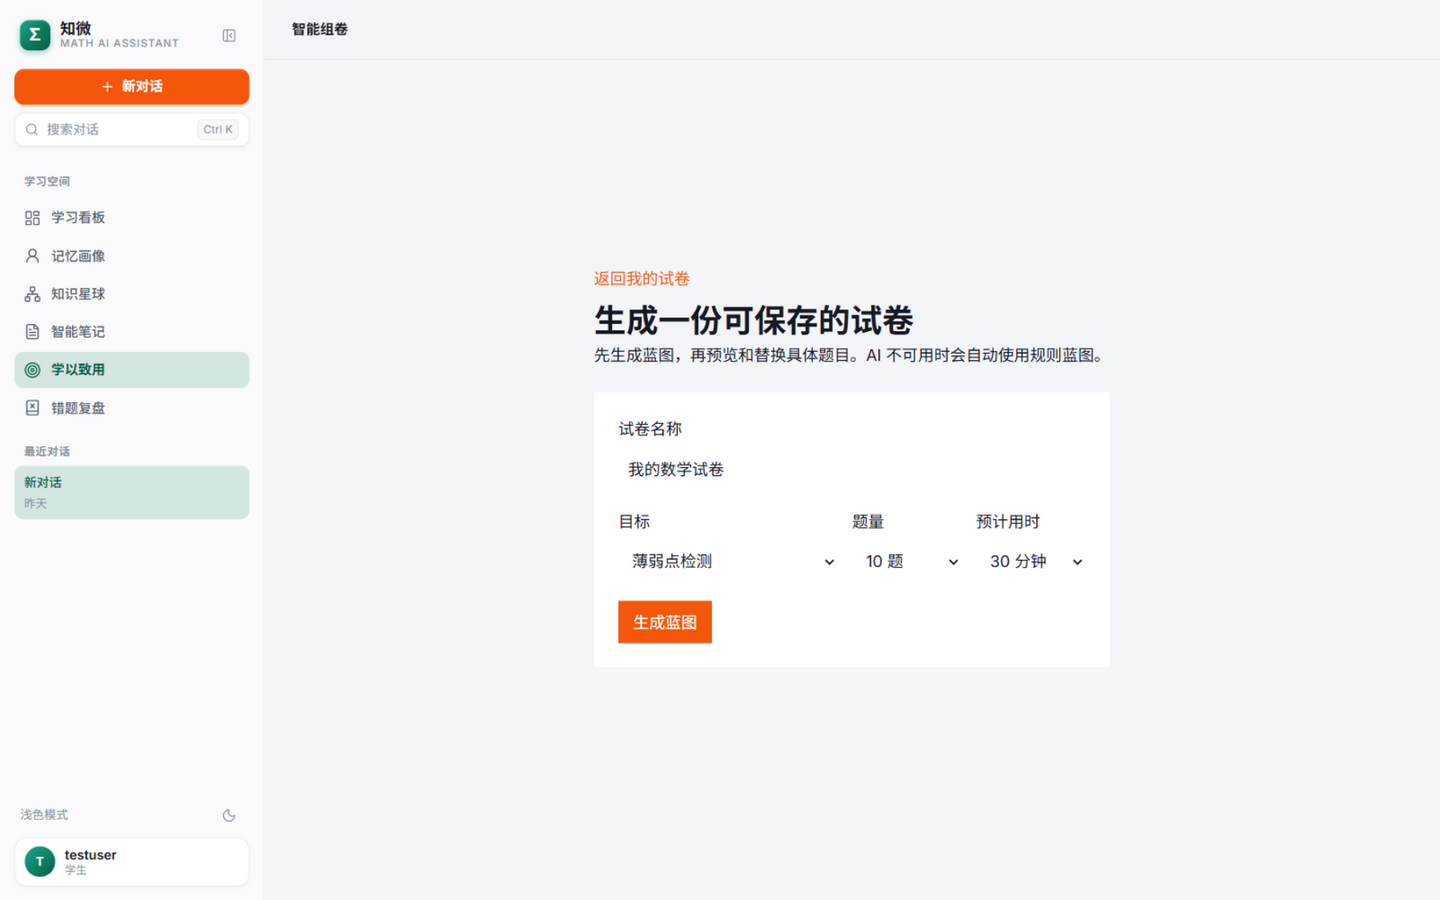
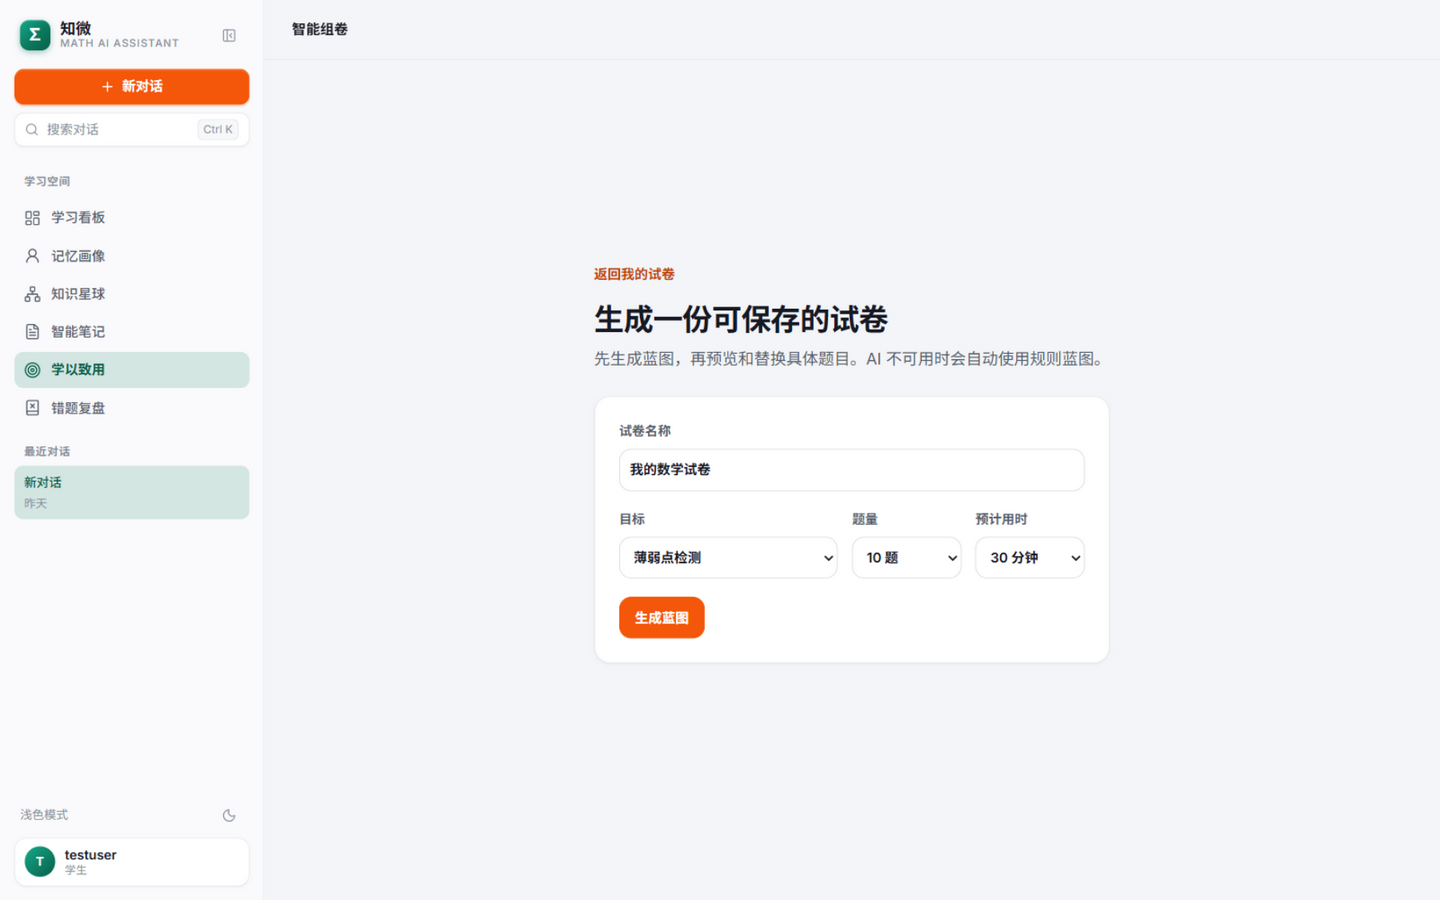
feat(design-v4) 组卷四页 V4 重皮(修复 V3 令牌失效)
- 根因同笔记两页:四视图全部使用 P5 已删除别名层的 V3 令牌名
  (--text-primary/secondary/tertiary、--border-subtle、--radius-sm/lg、
  --surface-muted、--danger),变量未定义导致边框/颜色渲染失效
- 全量替换 V4 令牌:字体阶梯(font-disp+clamp)、卡片 shadow-1/hover
  shadow-2、状态 pill(accent-soft)、按钮 hover/focus-visible/禁用态、
  输入聚焦环、详情页摘要卡 surface-2、草稿提示 amber-soft 语义盒
- 模板与逻辑零改动,仅 style 块替换;补 prefers-reduced-motion

验证:vitest 41 文件/147 用例、build、budget 全绿;列表/创建页亮暗
1440+创建页 375 走查截图更新至 design-preview/qa/papers/(编辑器/
详情页需已有试卷数据,与列表/创建同套设计语言)

diff --git a/frontend/src/views/StudentPaperCreateView.vue b/frontend/src/views/StudentPaperCreateView.vue
@@ -11,4 +11,32 @@ async function generate(){await assessment.previewBlueprint().catch(()=>{})}
 async function save(){const created=await papers.create({title:title.value,course_id:assessment.readiness.course_id,version_id:assessment.readiness.version_id,source_type:'ai',blueprint_buckets:assessment.blueprint.buckets.map(({original_count,adjust,...b})=>b),blueprint_snapshot:{goal:assessment.config.goal,duration_minutes:assessment.config.duration_minutes,planning_source:assessment.blueprint.meta?.planning_source}});router.push(`/apply/papers/${created.paper_id}/edit`)}
 </script>
 <template><AppShell><template #topbar-title>智能组卷</template><main class="page"><button class="back" @click="router.push('/apply/papers')">返回我的试卷</button><h1>生成一份可保存的试卷</h1><p>先生成蓝图，再预览和替换具体题目。AI 不可用时会自动使用规则蓝图。</p><section v-if="assessment.readiness" class="panel"><label>试卷名称<input v-model.trim="title" maxlength="200"></label><div class="row"><label>目标<select v-model="assessment.config.goal"><option value="weakness_check">薄弱点检测</option><option value="chapter_review">章节复习</option><option value="comprehensive">综合检测</option></select></label><label>题量<select v-model.number="assessment.config.question_count"><option v-for="n in [5,10,15,20,25,30]" :key="n" :value="n">{{n}} 题</option></select></label><label>预计用时<select v-model.number="assessment.config.duration_minutes"><option v-for="n in [15,30,45,60,90]" :key="n" :value="n">{{n}} 分钟</option></select></label></div><button class="primary" :disabled="assessment.blueprint.streaming" @click="generate">{{assessment.blueprint.streaming?'正在规划…':'生成蓝图'}}</button><p v-if="assessment.blueprint.error" class="error">{{assessment.blueprint.error}}</p><div v-if="assessment.blueprint.buckets.length" class="buckets"><article v-for="(bucket,index) in assessment.blueprint.buckets" :key="`${bucket.knowledge_point_code}-${index}`"><div><strong>{{bucket.knowledge_point_name||bucket.knowledge_point_code}}</strong><p>{{bucket.reason||'按当前学习情况配置'}}</p></div><div class="stepper"><button @click="assessment.adjustBucket(index,-1)">−</button><span>{{bucket.count}}题</span><button @click="assessment.adjustBucket(index,1)">＋</button></div></article><footer><span>共 {{total}} 题</span><button class="primary" :disabled="!title||papers.saving" @click="save">{{papers.saving?'正在选题…':'生成并进入编辑'}}</button></footer></div></section><p v-else>正在加载课程能力…</p></main></AppShell></template>
-<style scoped>.page{max-width:880px;margin:auto;padding:36px 24px 72px}.back{border:0;background:none;color:var(--accent);padding:0}.page>p{color:var(--text-secondary)}.panel{margin-top:24px;padding:24px;border:1px solid var(--border-subtle);border-radius:var(--radius-lg);background:var(--surface)}label{display:grid;gap:7px;color:var(--text-secondary)}input,select{min-height:42px;padding:0 10px;border:1px solid var(--border-subtle);border-radius:var(--radius-sm);background:var(--surface);color:var(--text-primary)}.row{display:grid;grid-template-columns:2fr 1fr 1fr;gap:14px;margin:18px 0}.buckets{display:grid;gap:10px;margin-top:22px}.buckets article,.buckets footer{display:flex;align-items:center;justify-content:space-between;gap:18px;padding:14px;border-radius:var(--radius-sm);background:var(--surface-muted)}.buckets p{margin:4px 0;color:var(--text-tertiary);font-size:13px}.stepper{display:flex;align-items:center;gap:10px}.stepper button{min-width:38px;padding:0}.buckets footer{background:var(--accent-soft)}button{min-height:42px;padding:0 15px;border:1px solid var(--border-subtle);border-radius:var(--radius-sm);background:var(--surface);color:var(--text-primary);cursor:pointer}.primary{background:var(--accent);border-color:var(--accent);color:#fff}.error{color:var(--danger)!important}@media(max-width:650px){.row{grid-template-columns:1fr}.buckets article{align-items:flex-start;flex-direction:column}}</style>
+<style scoped>
+.page { max-width: 880px; margin: auto; padding: 36px 24px 72px; }
+.back { border: 0; background: none; color: var(--accent-text); padding: 0; min-height: 0; font: inherit; font-size: 13.5px; font-weight: 600; cursor: pointer; }
+.back:hover { color: var(--accent); }
+.page > h1 { margin: 14px 0 6px; font-family: var(--font-disp); font-size: clamp(24px, 2.6vw, 30px); letter-spacing: -.02em; }
+.page > p { color: var(--ink-2); }
+.panel { margin-top: 24px; padding: 24px; border: 1px solid var(--border); border-radius: var(--r-l); background: var(--surface); box-shadow: var(--shadow-1); }
+label { display: grid; gap: 7px; color: var(--ink-2); font-size: 13px; font-weight: 600; }
+input, select { min-height: 42px; padding: 0 10px; border: 1px solid var(--border-strong); border-radius: var(--r-m); background: var(--surface); color: var(--ink-1); font: inherit; font-size: 13.5px; }
+input:focus-visible, select:focus-visible { outline: 2px solid var(--accent); outline-offset: 1px; }
+.row { display: grid; grid-template-columns: 2fr 1fr 1fr; gap: 14px; margin: 18px 0; }
+.buckets { display: grid; gap: 10px; margin-top: 22px; }
+.buckets article, .buckets footer { display: flex; align-items: center; justify-content: space-between; gap: 18px; padding: 14px; border: 1px solid var(--border); border-radius: var(--r-m); background: var(--surface-2); }
+.buckets strong { font-size: 14.5px; }
+.buckets p { margin: 4px 0 0; color: var(--ink-3); font-size: 13px; }
+.stepper { display: flex; align-items: center; gap: 10px; }
+.stepper button { min-width: 38px; padding: 0; }
+.stepper span { color: var(--ink-2); font-size: 13.5px; font-variant-numeric: tabular-nums; }
+.buckets footer { background: var(--accent-soft); border-color: var(--accent-soft-2); }
+.buckets footer span { color: var(--accent-text); font-weight: 650; font-size: 14px; }
+button { min-height: 42px; padding: 0 15px; border: 1px solid var(--border-strong); border-radius: var(--r-m); background: var(--surface); color: var(--ink-1); font: inherit; font-size: 13.5px; font-weight: 600; cursor: pointer; transition: background .15s ease, border-color .15s ease; }
+button:hover:not(:disabled) { border-color: var(--accent); color: var(--accent-text); }
+button:disabled { opacity: .55; cursor: not-allowed; }
+button:focus-visible { outline: 2px solid var(--accent); outline-offset: 2px; }
+.primary { background: var(--accent); border-color: var(--accent); color: #fff; }
+.primary:hover:not(:disabled) { background: var(--accent-strong); border-color: var(--accent-strong); color: #fff; }
+.error { color: var(--rose) !important; }
+@media (max-width: 650px) { .row { grid-template-columns: 1fr; } .buckets article { align-items: flex-start; flex-direction: column; } }
+</style>

diff --git a/frontend/src/views/StudentPaperDetailView.vue b/frontend/src/views/StudentPaperDetailView.vue
@@ -8,4 +8,29 @@ onMounted(()=>store.load(route.params.paperId).catch(()=>{}))
 async function launch(mode){busy.value=true;try{const session=await store.launch(mode,duration.value);router.push(mode==='test'?`/apply/exam/sessions/${session.session_id}`:`/apply/practice/sessions/${session.session_id}`)}finally{busy.value=false}}
 </script>
 <template><AppShell><template #topbar-title>试卷详情</template><main class="page"><button class="back" @click="router.push('/apply/papers')">返回我的试卷</button><p v-if="store.error" class="error">{{store.error}}</p><template v-if="store.paper"><section class="hero"><span>{{store.paper.status==='ready'?'已完成':'草稿'}}</span><h1>{{store.paper.title}}</h1><p>{{store.paper.question_count}}题 · {{store.paper.total_score}}分 · 预计{{store.paper.estimated_minutes}}分钟</p><div class="actions"><button @click="router.push(`/apply/papers/${store.paper.paper_id}/edit`)">编辑试卷</button><button class="primary" :disabled="store.paper.status!=='ready'||busy" @click="launch('practice')">开始练习</button><label>测试时长<select v-model.number="duration"><option v-for="n in [15,30,45,60,90]" :key="n" :value="n">{{n}}分钟</option></select></label><button class="primary" :disabled="store.paper.status!=='ready'||busy" @click="launch('test')">开始测试</button></div></section><section class="summary"><article><strong>{{store.paper.question_count}}</strong><span>总题量</span></article><article><strong>{{store.paper.total_score}}</strong><span>总分</span></article><article><strong>{{store.paper.estimated_minutes}}</strong><span>预计分钟</span></article></section><p v-if="store.paper.status!=='ready'" class="notice">这份试卷仍是草稿，请先编辑并完成校验。</p></template><p v-else>正在加载…</p></main></AppShell></template>
-<style scoped>.page{max-width:900px;margin:auto;padding:36px 24px 72px}.back{border:0;background:none;color:var(--accent);padding:0}.hero{margin-top:22px;padding:30px;border:1px solid var(--border-subtle);border-radius:var(--radius-lg);background:var(--surface)}.hero>span{color:var(--accent);font-size:13px}.hero h1{margin:8px 0}.hero p{color:var(--text-secondary)}.actions{display:flex;align-items:center;gap:10px;flex-wrap:wrap;margin-top:24px}.actions label{display:flex;align-items:center;gap:8px;color:var(--text-secondary)}select{min-height:42px;border:1px solid var(--border-subtle);border-radius:var(--radius-sm);background:var(--surface);color:var(--text-primary)}button{min-height:42px;padding:0 14px;border:1px solid var(--border-subtle);border-radius:var(--radius-sm);background:var(--surface);color:var(--text-primary);cursor:pointer}.primary{background:var(--accent);color:#fff;border-color:var(--accent)}.summary{display:grid;grid-template-columns:repeat(3,1fr);gap:14px;margin-top:18px}.summary article{display:grid;gap:5px;padding:20px;text-align:center;border-radius:var(--radius-lg);background:var(--surface-muted)}.summary strong{font-size:25px}.summary span{color:var(--text-tertiary)}.notice{padding:14px;background:#fff7dc;border-radius:var(--radius-sm)}.error{color:var(--danger)}@media(max-width:600px){.summary{grid-template-columns:1fr}.actions{align-items:stretch;flex-direction:column}.actions label{justify-content:space-between}}</style>
+<style scoped>
+.page { max-width: 900px; margin: auto; padding: 36px 24px 72px; }
+.back { border: 0; background: none; color: var(--accent-text); padding: 0; min-height: 0; font: inherit; font-size: 13.5px; font-weight: 600; cursor: pointer; }
+.back:hover { color: var(--accent); }
+.hero { margin-top: 22px; padding: 30px; border: 1px solid var(--border); border-radius: var(--r-l); background: var(--surface); box-shadow: var(--shadow-1); }
+.hero > span { color: var(--accent-text); font-size: 13px; font-weight: 650; letter-spacing: .02em; }
+.hero h1 { margin: 8px 0; font-family: var(--font-disp); letter-spacing: -.02em; }
+.hero p { color: var(--ink-2); }
+.actions { display: flex; align-items: center; gap: 10px; flex-wrap: wrap; margin-top: 24px; }
+.actions label { display: flex; align-items: center; gap: 8px; color: var(--ink-2); font-size: 13px; font-weight: 600; }
+select { min-height: 42px; padding: 0 10px; border: 1px solid var(--border-strong); border-radius: var(--r-m); background: var(--surface); color: var(--ink-1); font: inherit; font-size: 13.5px; }
+select:focus-visible { outline: 2px solid var(--accent); outline-offset: 1px; }
+button { min-height: 42px; padding: 0 14px; border: 1px solid var(--border-strong); border-radius: var(--r-m); background: var(--surface); color: var(--ink-1); font: inherit; font-size: 13.5px; font-weight: 600; cursor: pointer; transition: background .15s ease, border-color .15s ease; }
+button:hover:not(:disabled) { border-color: var(--accent); color: var(--accent-text); }
+button:disabled { opacity: .55; cursor: not-allowed; }
+button:focus-visible { outline: 2px solid var(--accent); outline-offset: 2px; }
+.primary { background: var(--accent); color: #fff; border-color: var(--accent); }
+.primary:hover:not(:disabled) { background: var(--accent-strong); border-color: var(--accent-strong); color: #fff; }
+.summary { display: grid; grid-template-columns: repeat(3, 1fr); gap: 14px; margin-top: 18px; }
+.summary article { display: grid; gap: 5px; padding: 20px; text-align: center; border-radius: var(--r-l); background: var(--surface-2); }
+.summary strong { font-size: 25px; font-variant-numeric: tabular-nums; }
+.summary span { color: var(--ink-3); font-size: 13px; }
+.notice { padding: 14px; background: var(--amber-soft); border-radius: var(--r-m); color: var(--ink-1); }
+.error { color: var(--rose); }
+@media (max-width: 600px) { .summary { grid-template-columns: 1fr; } .actions { align-items: stretch; flex-direction: column; } .actions label { justify-content: space-between; } }
+</style>

diff --git a/frontend/src/views/StudentPaperEditorView.vue b/frontend/src/views/StudentPaperEditorView.vue
@@ -13,4 +13,29 @@ async function act(type,item){busy.value=item.item_id;try{if(type==='replace')aw
 async function finalize(){busy.value='finalize';try{await saveTitle();await store.finalize();router.push(`/apply/papers/${store.paper.paper_id}`)}finally{busy.value=''}}
 </script>
 <template><AppShell><template #topbar-title>编辑试卷</template><main class="page"><button class="back" @click="router.push('/apply/papers')">返回我的试卷</button><p v-if="store.error" class="error">{{store.error}}</p><template v-if="store.paper"><header><div><label>试卷名称<input v-model="title" maxlength="200" @input="dirty=true" @blur="saveTitle"></label><p>{{store.paper.question_count}}题 · {{store.paper.total_score}}分 · 预计{{store.paper.estimated_minutes}}分钟</p></div><button class="primary" :disabled="!!busy||!store.paper.questions.length" @click="finalize">保存并完成</button></header><ol class="questions"><li v-for="item in store.paper.questions" :key="item.item_id"><div class="position">{{item.position}}</div><div class="body"><div class="meta">{{item.question_type}} · 难度 {{item.difficulty}} · {{item.score}} 分 · {{(item.knowledge_point_codes||[]).join('、')}}</div><div v-html="renderMarkdown(item.content)"/></div><div class="actions"><button :disabled="!!busy||item.position===1" aria-label="上移" @click="act(-1,item)">↑</button><button :disabled="!!busy||item.position===store.paper.questions.length" aria-label="下移" @click="act(1,item)">↓</button><button :disabled="!!busy" @click="act('replace',item)">替换</button><button class="danger" :disabled="!!busy" @click="act('remove',item)">删除</button></div></li></ol></template><p v-else>正在加载试卷…</p></main></AppShell></template>
-<style scoped>.page{max-width:1050px;margin:auto;padding:32px 24px 72px}.back{border:0;background:none;color:var(--accent);padding:0}.page>header{display:flex;justify-content:space-between;align-items:flex-end;gap:24px;margin:20px 0}.page label{display:grid;gap:7px;color:var(--text-secondary)}input{min-width:min(520px,80vw);min-height:44px;padding:0 12px;border:1px solid var(--border-subtle);border-radius:var(--radius-sm);font-size:20px;background:var(--surface);color:var(--text-primary)}header p,.meta{color:var(--text-tertiary)}.questions{display:grid;gap:14px;padding:0;list-style:none}.questions li{display:grid;grid-template-columns:42px 1fr auto;gap:16px;padding:20px;border:1px solid var(--border-subtle);border-radius:var(--radius-lg);background:var(--surface)}.position{display:grid;place-items:center;width:36px;height:36px;border-radius:50%;background:var(--accent-soft);font-weight:700}.body{min-width:0}.meta{font-size:13px}.actions{display:flex;gap:6px;align-items:flex-start;flex-wrap:wrap}button{min-height:40px;padding:0 12px;border:1px solid var(--border-subtle);border-radius:var(--radius-sm);background:var(--surface);color:var(--text-primary);cursor:pointer}.primary{background:var(--accent);border-color:var(--accent);color:#fff}.danger{color:var(--danger)}.error{color:var(--danger)}@media(max-width:760px){.page>header{align-items:flex-start;flex-direction:column}.questions li{grid-template-columns:36px 1fr}.actions{grid-column:2}}</style>
+<style scoped>
+.page { max-width: 1050px; margin: auto; padding: 32px 24px 72px; }
+.back { border: 0; background: none; color: var(--accent-text); padding: 0; min-height: 0; font: inherit; font-size: 13.5px; font-weight: 600; cursor: pointer; }
+.back:hover { color: var(--accent); }
+.page > header { display: flex; justify-content: space-between; align-items: flex-end; gap: 24px; margin: 20px 0; }
+.page label { display: grid; gap: 7px; color: var(--ink-2); font-size: 13px; font-weight: 600; }
+input { min-width: min(520px, 80vw); min-height: 44px; padding: 0 12px; border: 1px solid var(--border-strong); border-radius: var(--r-m); font: inherit; font-size: 20px; font-weight: 600; background: var(--surface); color: var(--ink-1); }
+input:focus-visible { outline: 2px solid var(--accent); outline-offset: 1px; }
+header p, .meta { color: var(--ink-3); }
+.questions { display: grid; gap: 14px; padding: 0; list-style: none; }
+.questions li { display: grid; grid-template-columns: 42px 1fr auto; gap: 16px; padding: 20px; border: 1px solid var(--border); border-radius: var(--r-l); background: var(--surface); box-shadow: var(--shadow-1); }
+.position { display: grid; place-items: center; width: 36px; height: 36px; border-radius: 50%; background: var(--accent-soft); color: var(--accent-text); font-weight: 700; font-variant-numeric: tabular-nums; }
+.body { min-width: 0; }
+.meta { font-size: 13px; }
+.actions { display: flex; gap: 6px; align-items: flex-start; flex-wrap: wrap; }
+button { min-height: 40px; padding: 0 12px; border: 1px solid var(--border-strong); border-radius: var(--r-m); background: var(--surface); color: var(--ink-1); font: inherit; font-size: 13.5px; font-weight: 600; cursor: pointer; transition: background .15s ease, border-color .15s ease; }
+button:hover:not(:disabled) { border-color: var(--accent); color: var(--accent-text); }
+button:disabled { opacity: .55; cursor: not-allowed; }
+button:focus-visible { outline: 2px solid var(--accent); outline-offset: 2px; }
+.primary { background: var(--accent); border-color: var(--accent); color: #fff; }
+.primary:hover:not(:disabled) { background: var(--accent-strong); border-color: var(--accent-strong); color: #fff; }
+.danger { color: var(--rose); }
+.danger:hover:not(:disabled) { border-color: var(--rose); color: var(--rose); }
+.error { color: var(--rose); }
+@media (max-width: 760px) { .page > header { align-items: flex-start; flex-direction: column; } .questions li { grid-template-columns: 36px 1fr; } .actions { grid-column: 2; } }
+</style>

diff --git a/frontend/src/views/StudentPapersView.vue b/frontend/src/views/StudentPapersView.vue
@@ -7,4 +7,29 @@ const router=useRouter(),store=useStudentPaperStore()
 onMounted(()=>store.list().catch(()=>{}))
 </script>
 <template><AppShell><template #topbar-title>我的试卷</template><main class="page"><header><div><button class="back" @click="router.push('/apply')">返回学以致用</button><h1>我的试卷</h1><p>保存、调整并重复使用你自己的试卷。</p></div><button class="primary" @click="router.push('/apply/papers/new')">新建试卷</button></header><p v-if="store.error" class="error">{{store.error}}</p><p v-if="store.loading">正在加载…</p><section v-else class="grid"><article v-for="paper in store.items" :key="paper.paper_id"><div><span class="status">{{paper.status==='ready'?'可使用':'草稿'}}</span><h2>{{paper.title}}</h2><p>{{paper.question_count}} 题 · {{paper.total_score}} 分 · 约 {{paper.estimated_minutes}} 分钟</p></div><div class="actions"><button @click="router.push(`/apply/papers/${paper.paper_id}`)">查看</button><button @click="router.push(`/apply/papers/${paper.paper_id}/edit`)">编辑</button></div></article><div v-if="!store.items.length" class="empty"><h2>还没有学生试卷</h2><p>从智能蓝图开始，生成后仍可逐题替换和排序。</p><button class="primary" @click="router.push('/apply/papers/new')">生成第一份试卷</button></div></section></main></AppShell></template>
-<style scoped>.page{max-width:1040px;margin:auto;padding:36px 24px 72px}.page>header{display:flex;justify-content:space-between;align-items:flex-end;gap:20px}.back{border:0;background:none;color:var(--accent);padding:0}.page h1{margin:12px 0 6px}.page p{color:var(--text-secondary)}.grid{display:grid;grid-template-columns:repeat(2,minmax(0,1fr));gap:16px;margin-top:28px}.grid article,.empty{display:flex;justify-content:space-between;gap:20px;padding:22px;border:1px solid var(--border-subtle);border-radius:var(--radius-lg);background:var(--surface)}.grid h2{font-size:18px;margin:8px 0}.status{font-size:12px;color:var(--accent)}.actions{display:flex;gap:8px;align-items:flex-end}button{min-height:42px;padding:0 14px;border:1px solid var(--border-subtle);border-radius:var(--radius-sm);background:var(--surface);color:var(--text-primary);cursor:pointer}.primary{background:var(--accent);border-color:var(--accent);color:#fff}.empty{grid-column:1/-1;display:block;text-align:center}.error{color:var(--danger)!important}@media(max-width:700px){.grid{grid-template-columns:1fr}.page>header{align-items:flex-start;flex-direction:column}.grid article{flex-direction:column}.actions{align-items:center}}</style>
+<style scoped>
+.page { max-width: 1040px; margin: auto; padding: 36px 24px 72px; }
+.page > header { display: flex; justify-content: space-between; align-items: flex-end; gap: 20px; }
+.back { border: 0; background: none; color: var(--accent-text); padding: 0; min-height: 0; font: inherit; font-size: 13.5px; font-weight: 600; cursor: pointer; }
+.back:hover { color: var(--accent); }
+.page h1 { margin: 12px 0 6px; font-family: var(--font-disp); font-size: clamp(26px, 3vw, 34px); letter-spacing: -.03em; }
+.page > header p { color: var(--ink-2); }
+.grid { display: grid; grid-template-columns: repeat(2, minmax(0, 1fr)); gap: 16px; margin-top: 28px; }
+.grid article, .empty { display: flex; justify-content: space-between; gap: 20px; padding: 22px; border: 1px solid var(--border); border-radius: var(--r-l); background: var(--surface); box-shadow: var(--shadow-1); transition: box-shadow .15s ease, transform .15s ease; }
+.grid article:hover { box-shadow: var(--shadow-2); transform: translateY(-1px); }
+.grid h2 { font-size: 18px; margin: 8px 0; }
+.grid article > div > p { margin: 0; color: var(--ink-3); font-size: 13.5px; }
+.status { display: inline-flex; align-items: center; height: 24px; padding: 0 10px; border-radius: var(--r-pill); background: var(--accent-soft); color: var(--accent-text); font-size: 12px; font-weight: 650; }
+.actions { display: flex; gap: 8px; align-items: flex-end; }
+button { min-height: 42px; padding: 0 14px; border: 1px solid var(--border-strong); border-radius: var(--r-m); background: var(--surface); color: var(--ink-1); font: inherit; font-size: 13.5px; font-weight: 600; cursor: pointer; transition: background .15s ease, border-color .15s ease; }
+button:hover:not(:disabled) { border-color: var(--accent); color: var(--accent-text); }
+button:focus-visible { outline: 2px solid var(--accent); outline-offset: 2px; }
+.primary { background: var(--accent); border-color: var(--accent); color: #fff; }
+.primary:hover:not(:disabled) { background: var(--accent-strong); border-color: var(--accent-strong); color: #fff; }
+.empty { grid-column: 1/-1; display: block; text-align: center; border-style: dashed; border-color: var(--border-strong); box-shadow: none; }
+.empty h2 { font-family: var(--font-disp); letter-spacing: -.02em; }
+.empty p { margin: 8px 0 18px; color: var(--ink-3); }
+.error { color: var(--rose) !important; }
+@media (max-width: 700px) { .grid { grid-template-columns: 1fr; } .page > header { align-items: flex-start; flex-direction: column; } .grid article { flex-direction: column; } .actions { align-items: center; } }
+@media (prefers-reduced-motion: reduce) { .grid article, .grid article:hover { transition: none; transform: none; } }
+</style>
